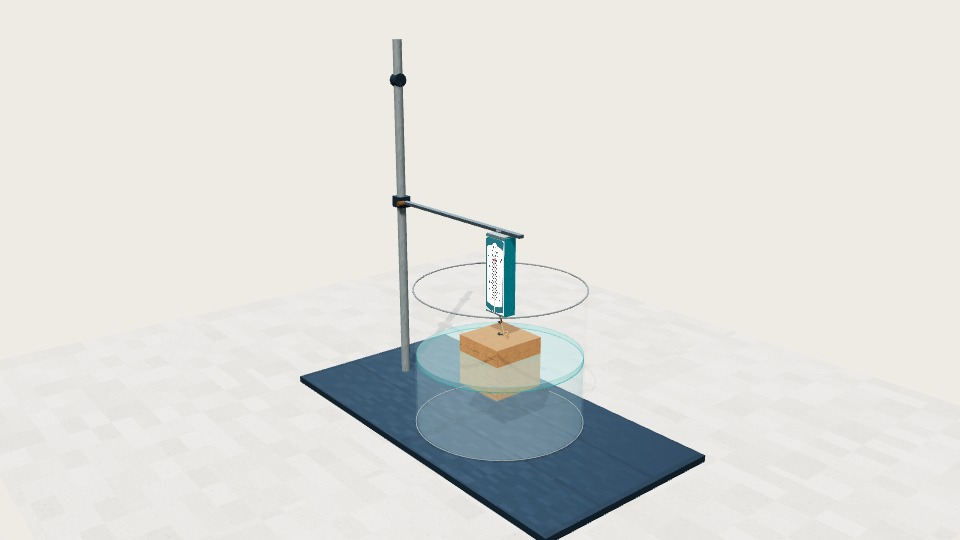
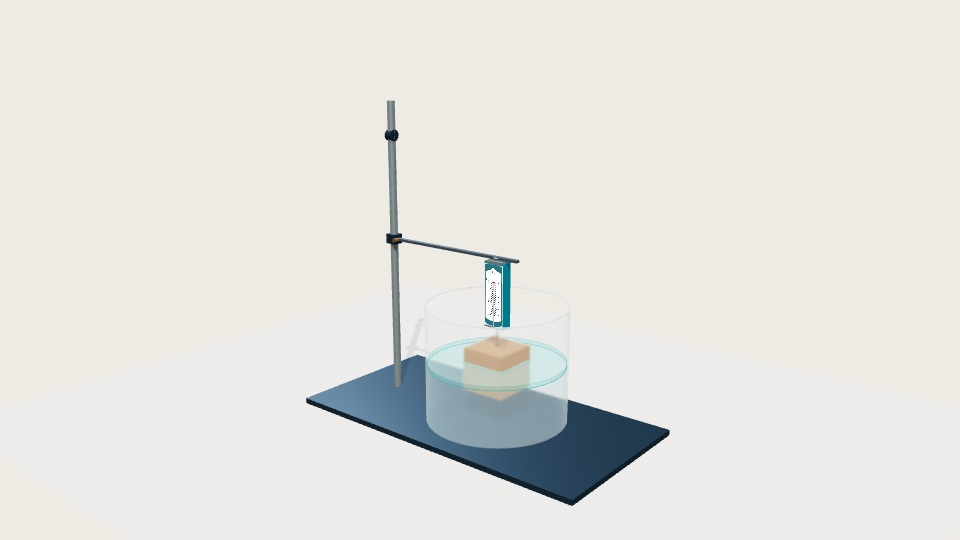
Enhance beaker and nested-cup glass in buoyancy density lab

Changed region(s): [[0.3125, 0.0593, 0.75, 1.0]]

diff --git a/models/buoyancy-density-lab.html b/models/buoyancy-density-lab.html
@@ -5152,17 +5152,32 @@ function setup(){
  const key=new THREE.DirectionalLight('#fff4e9',3.0);key.position.set(16,32,21);key.castShadow=true;key.shadow.mapSize.set(1024,1024);key.shadow.camera.left=-40;key.shadow.camera.right=40;key.shadow.camera.top=40;key.shadow.camera.bottom=-40;scene.add(key);
  const fill=new THREE.DirectionalLight('#c4def3',1.2);fill.position.set(-18,19,-14);scene.add(fill);
  const ambient=new THREE.AmbientLight('#f5f3f0',0.32);scene.add(ambient);
+ // Local reflection rig is assigned only to optical glass, keeping other materials unchanged.
+ const glassStudio=new THREE.Scene();glassStudio.add(new THREE.Mesh(new THREE.BoxGeometry(180,180,180),new THREE.MeshBasicMaterial({color:0x7f9095,side:THREE.BackSide})));
+ for(const panel of [{p:[-35,26,40],size:[9,72],power:5.0,color:0xf2f8ff},{p:[38,30,21],size:[6,64],power:3.8,color:0xfff5e4},{p:[0,65,-28],size:[48,12],power:2.1,color:0xffffff}]){const lightbox=new THREE.Mesh(new THREE.PlaneGeometry(...panel.size),new THREE.MeshBasicMaterial({color:new THREE.Color(panel.color).multiplyScalar(panel.power),side:THREE.DoubleSide}));lightbox.position.set(...panel.p);lightbox.lookAt(0,10,0);glassStudio.add(lightbox);}
+ const glassPMREM=new THREE.PMREMGenerator(renderer),glassEnvironment=glassPMREM.fromScene(glassStudio,.02);
+ const glassEnv=glassEnvironment.texture;glassPMREM.dispose();glassStudio.traverse(o=>{o.geometry?.dispose();o.material?.dispose();});
+ function nestedGlass(opacity=.17){
+  // Transparent reflection shell: retains the inner cup and both dyed liquids.
+  const m=new THREE.MeshPhysicalMaterial({color:0xf0fafc,roughness:.055,metalness:0,transparent:true,opacity,transmission:0,ior:1.5,depthWrite:false,side:THREE.FrontSide,envMap:glassEnv,envMapIntensity:1.15,clearcoat:.3,clearcoatRoughness:.08});
+  m.userData.noMaterialFinish=true;m.userData.disposable=true;
+  m.onBeforeCompile=shader=>{shader.fragmentShader=shader.fragmentShader.replace('#include <dithering_fragment>',`#include <dithering_fragment>
+   float edge=pow(1.0-abs(dot(normalize(normal),normalize(vViewPosition))),2.0);
+   gl_FragColor.a*=mix(.20,1.8,edge);`);};m.customProgramCacheKey=()=> 'buoyancy-nested-glass-b22';return m;
+ }
  const mats={
   metal:new THREE.MeshStandardMaterial({color:'#7a8a97',metalness:.78,roughness:.33}),
   dark:new THREE.MeshStandardMaterial({color:'#304454',metalness:.56,roughness:.33}),
   trim:new THREE.MeshStandardMaterial({color:'#b9ccd3',metalness:.8,roughness:.2}),
   white:new THREE.MeshStandardMaterial({color:'#eef1f2',metalness:.1,roughness:.45}),
   brass:new THREE.MeshStandardMaterial({color:'#b18c5d',metalness:.8,roughness:.28}),
-  glass:new THREE.MeshPhysicalMaterial({color:'#e7f9ff',roughness:.06,metalness:0,transparent:true,opacity:.09,transmission:0,clearcoat:.75,clearcoatRoughness:.045,depthWrite:false,side:THREE.FrontSide}),
+  glass:new THREE.MeshPhysicalMaterial({color:0xf2fbff,roughness:.05,metalness:0,transparent:true,opacity:1,transmission:.94,ior:1.5,thickness:.17,attenuationColor:new THREE.Color(0xc8e7eb),attenuationDistance:8,envMap:glassEnv,envMapIntensity:1.05,clearcoat:.12,clearcoatRoughness:.08,depthWrite:false,side:THREE.FrontSide}),
   glaze:new THREE.MeshPhysicalMaterial({color:'#c8edf6',roughness:.08,metalness:0,transparent:true,opacity:.34,transmission:.55,thickness:.35,ior:1.34,depthWrite:false,side:THREE.DoubleSide}),
   rope:new THREE.MeshStandardMaterial({color:'#ae875b',roughness:.86}),
   cut:new THREE.MeshStandardMaterial({color:'#79acc1',metalness:.1,roughness:.45,side:THREE.DoubleSide})
  };
+ mats.glass.userData.noMaterialFinish=true;
+ mats.glassRim=mats.glass.clone();mats.glassRim.roughness=.075;mats.glassRim.thickness=.22;mats.glassRim.transmission=.58;mats.glassRim.opacity=.92;mats.glassRim.color.set(0xc5e4eb);
  const floor=new THREE.Mesh(new THREE.PlaneGeometry(100,80),new THREE.MeshStandardMaterial({color:'#e8e0d5',roughness:.95}));floor.rotation.x=-Math.PI/2;floor.position.y=-.5;floor.receiveShadow=true;scene.add(floor);
  let apparatus=new THREE.Group(),permanent=new THREE.Group();
  scene.add(apparatus,permanent);
@@ -5599,11 +5614,17 @@ function setup(){
    };
    function bounds(t){const z=r*Math.cos(t);if(r*Math.sin(t)>r*.8&&Math.abs(z)<hr){const dy=Math.sqrt(hr*hr-z*z);return [yc-dy,yc+dy];}return [yc,yc];}
    for(let i=0;i<angles.length-1;i++){const a=angles[i],b=angles[i+1],[loA,hiA]=bounds(a),[loB,hiB]=bounds(b);quad(a,b,0,loA,0,loB);quad(a,b,hiA,height,hiB,height);}
-   const geo=new THREE.BufferGeometry();geo.setAttribute('position',new THREE.Float32BufferAttribute(positions,3));geo.computeVertexNormals();tankGlass=mesh(geo,mats.glass);tankGlass.material=tankGlass.material.clone();tankGlass.material.side=THREE.DoubleSide;tankGlass.material.opacity=.16;
+   const geo=new THREE.BufferGeometry();geo.setAttribute('position',new THREE.Float32BufferAttribute(positions,3));geo.computeVertexNormals();tankGlass=mesh(geo,mats.glass);tankGlass.material=tankGlass.material.clone();tankGlass.material.side=THREE.DoubleSide;tankGlass.material.opacity=1;
   }else tankGlass=cyl(r,r,height,mats.glass,0,baseY+height/2,0,apparatus,96,start,len,true);
-  tankGlass.castShadow=false;tankGlass.userData.cutStart=start;tankGlass.userData.cutLength=len;
+  tankGlass.castShadow=false;tankGlass.name='glass-main-wall';
+  // A surface-reflection pass keeps glass highlights above the translucent water.
+  const reflectionWall=mesh(tankGlass.geometry.clone(),nestedGlass(.20));reflectionWall.position.copy(tankGlass.position);reflectionWall.rotation.copy(tankGlass.rotation);reflectionWall.scale.copy(tankGlass.scale);reflectionWall.material.side=tankGlass.material.side;reflectionWall.renderOrder=10;reflectionWall.castShadow=false;reflectionWall.receiveShadow=false;reflectionWall.name='glass-surface-reflections';
+  // An actual inner wall and rounded lip make the 1.7 mm display thickness legible.
+  if(mode!=='overflow'){const innerMat=nestedGlass(.045);innerMat.side=THREE.BackSide;
+   const inner=cyl(r-.17,r-.17,height-.12,innerMat,0,baseY+.12+(height-.12)/2,0,apparatus,96,start,len,true);inner.name='glass-inner-wall';inner.renderOrder=8;inner.castShadow=false;}
+  tankGlass.userData.cutStart=start;tankGlass.userData.cutLength=len;
   const bottom=mesh(new THREE.CircleGeometry(r,96,start-Math.PI/2,len),mats.glass);bottom.rotation.x=-Math.PI/2;bottom.position.y=baseY;
-  sectorRing(r,baseY+height,mats.trim,.065);sectorRing(r,baseY,mats.trim,.055);
+  sectorRing(r-.08,baseY+height,mats.glassRim,.08);sectorRing(r-.06,baseY+.035,mats.glassRim,.06);
   tankWater=cyl(R,R,1,wm,0,0,0,apparatus,96,start,len,true);tankWater.castShadow=false;tankWater.renderOrder=2;
   surface=mesh(new THREE.CircleGeometry(R,96,start-Math.PI/2,len),waterSurfaceMaterial(wm));surface.rotation.x=-Math.PI/2;surface.renderOrder=3;surface.castShadow=false;
   surface.userData.cutStart=start;surface.userData.cutLength=len;surface.userData.radius=R;
@@ -5631,14 +5652,14 @@ function setup(){
   const jetCurve=new THREE.CatmullRomCurve3([B,B.clone().add(new THREE.Vector3(.15,-.8,0)),new THREE.Vector3(B.x+.18,baseY+6.9,0),new THREE.Vector3(B.x+.12,baseY+.3,0)]);
   overflowJet=mesh(new THREE.TubeGeometry(jetCurve,36,.07,8,false),new THREE.MeshBasicMaterial({color:'#249dbb',transparent:true,opacity:.78}));overflowJet.visible=false;overflowLumen.visible=false;
   cupCollect=new THREE.Group();apparatus.add(cupCollect);cupCollect.position.x=B.x;
-  cyl(2.55,2.5,6.8,mats.glass,0,baseY+3.4,0,cupCollect,64,0,Math.PI*2,true);cyl(2.55,2.55,.12,mats.glass,0,baseY+.06,0,cupCollect);torus(2.55,.06,mats.trim,0,baseY+6.8,0,cupCollect);
+  const collectingWall=cyl(2.55,2.5,6.8,mats.glass,0,baseY+3.4,0,cupCollect,64,0,Math.PI*2,true);const collectingReflection=mesh(collectingWall.geometry.clone(),nestedGlass(.18),cupCollect);collectingReflection.position.copy(collectingWall.position);collectingReflection.renderOrder=10;collectingReflection.castShadow=false;collectingReflection.receiveShadow=false;cyl(2.55,2.55,.12,mats.glass,0,baseY+.06,0,cupCollect);torus(2.50,.055,mats.glassRim,0,baseY+6.8,0,cupCollect);
   collectWater=cyl(2.4,2.4,1,liquidMaterial(),0,baseY,0,cupCollect,64);waterCollected=Math.max(0,Number(P.overflowVol)||0);
  }
 
  let nestedGlassEdges=[];
  function glassOutline(r,h,parent){
-  const edge=new THREE.MeshBasicMaterial({color:'#4d7281',transparent:true,opacity:.88,depthWrite:false,toneMapped:false});
-  const shine=new THREE.MeshBasicMaterial({color:'#effbff',transparent:true,opacity:.70,depthWrite:false,toneMapped:false});
+  const edge=new THREE.MeshBasicMaterial({color:'#4d7281',transparent:true,opacity:.48,depthWrite:false,toneMapped:false});
+  const shine=new THREE.MeshBasicMaterial({color:'#effbff',transparent:true,opacity:.52,depthWrite:false,toneMapped:false});
   // Camera-facing tangent contours define the cylindrical walls without tinting the liquid.
   const sides=new THREE.Group();parent.add(sides);nestedGlassEdges.push(sides);
   for(const x of [-r,r])cyl(.05,.05,h-.08,edge,x,h/2,0,sides,8);
@@ -5649,13 +5670,13 @@ function setup(){
  }
  function makeNested(){
   const outR=NESTED.outerD/2, inR=nestedInnerD()/2;const gap=outR-inR;
-  const outerMat=new THREE.MeshBasicMaterial({color:'#b8d7e2',transparent:true,opacity:.13,depthWrite:false,side:THREE.FrontSide,toneMapped:false});
+  const outerMat=nestedGlass(.20);
   // Subtle glass fill plus rim, bottom and silhouette contours keep both cups readable.
   nestedOuterGlass=cyl(outR,outR,NESTED.cupH,outerMat,0,NESTED.cupH/2,0,apparatus,72,cut?Math.PI/4:0,cut?Math.PI*1.5:2*Math.PI,true);
   cyl(outR,outR,.18,outerMat,0,.1,0,apparatus,64);
   glassOutline(outR,NESTED.cupH,apparatus);
   nestedInnerGlass=new THREE.Group();apparatus.add(nestedInnerGlass);
-  const wallMat=new THREE.MeshBasicMaterial({color:'#c4e0e9',transparent:true,opacity:.12,depthWrite:false,side:THREE.FrontSide,toneMapped:false});
+  const wallMat=nestedGlass(.17);
   cyl(inR,inR,NESTED.innerH,wallMat,0,NESTED.innerH/2,0,nestedInnerGlass,64,cut?Math.PI/4:0,cut?Math.PI*1.5:2*Math.PI,true);
   cyl(inR,inR,.20,wallMat,0,.10,0,nestedInnerGlass,64);
   glassOutline(inR,NESTED.innerH,nestedInnerGlass);
@@ -5686,7 +5707,7 @@ function setup(){
    lastTransition=_state.modeTransitionVersion||0;
   }
   apparatus.visible=true;
-  if(mode==='nestedCup'){makeNested();if(cut)apparatus.traverse(o=>{if(o.material&&!Array.isArray(o.material)){o.material=o.material.clone();o.material.clippingPlanes=cutPlanes;o.material.clipIntersection=true;o.material.userData.disposable=true;o.material.needsUpdate=true;}});} else {
+  if(mode==='nestedCup'){makeNested();if(cut)apparatus.traverse(o=>{if(o.material&&!Array.isArray(o.material)){const source=o.material;o.material=source.clone();o.material.onBeforeCompile=source.onBeforeCompile;o.material.customProgramCacheKey=source.customProgramCacheKey;o.material.clippingPlanes=cutPlanes;o.material.clipIntersection=true;o.material.userData.disposable=true;o.material.needsUpdate=true;}});} else {
    makeTank(getVisCm(),mode);
    const obj=placedObj(); if(obj&&modeState.isPlaced) objectRoot=buildObject(obj);
   }
@@ -5865,7 +5886,7 @@ function setup(){
  }
  requestAnimationFrame(loop);
  resize();
- window.__buoyancyB13={scene,camera,pose,bodyPosition:()=>objectRoot?.position.toArray(),getState:()=>({equipment:{mode:modeState.current,builtMode:lastMode,column:standColumn.visible,scale:scaleRoot.visible,arm:standSlidable.visible,apparatus:apparatus.visible,rope:!!suspension?.parent,collector:!!cupCollect?.parent,jet:!!overflowJet?.visible,face:faceSvg.style.display!=='none'},cut,target:target.toArray(),camera:camera.position.toArray(),waterAngle:surface?.geometry.parameters?.thetaStart,sideAngle:tankWater?.geometry.parameters?.thetaStart,radius:surface?.userData.radius,spout:outTube?.userData,jet:!!overflowJet?.visible,collectorX:cupCollect?.position.x}),projectScale:()=>{const p=new THREE.Vector3(0,3.8,.8).applyMatrix4(scaleRoot.matrixWorld).project(camera);const r=el.getBoundingClientRect();return {x:r.x+(p.x+1)*r.width/2,y:r.y+(1-p.y)*r.height/2};},projectWater:()=>{const p=new THREE.Vector3(-4,baseY+wetH,0).project(camera);const r=el.getBoundingClientRect();return {x:r.x+(p.x+1)*r.width/2,y:r.y+(1-p.y)*r.height/2};}};
+ window.__buoyancyB13={scene,camera,renderer,pose,glassMaterials:{main:mats.glass,rim:mats.glassRim},glassObjects:()=>({tank:tankGlass,collector:cupCollect,outer:nestedOuterGlass,inner:nestedInnerGlass}),bodyPosition:()=>objectRoot?.position.toArray(),getState:()=>({equipment:{mode:modeState.current,builtMode:lastMode,column:standColumn.visible,scale:scaleRoot.visible,arm:standSlidable.visible,apparatus:apparatus.visible,rope:!!suspension?.parent,collector:!!cupCollect?.parent,jet:!!overflowJet?.visible,face:faceSvg.style.display!=='none'},cut,target:target.toArray(),camera:camera.position.toArray(),waterAngle:surface?.geometry.parameters?.thetaStart,sideAngle:tankWater?.geometry.parameters?.thetaStart,radius:surface?.userData.radius,spout:outTube?.userData,jet:!!overflowJet?.visible,collectorX:cupCollect?.position.x}),projectScale:()=>{const p=new THREE.Vector3(0,3.8,.8).applyMatrix4(scaleRoot.matrixWorld).project(camera);const r=el.getBoundingClientRect();return {x:r.x+(p.x+1)*r.width/2,y:r.y+(1-p.y)*r.height/2};},projectWater:()=>{const p=new THREE.Vector3(-4,baseY+wetH,0).project(camera);const r=el.getBoundingClientRect();return {x:r.x+(p.x+1)*r.width/2,y:r.y+(1-p.y)*r.height/2};}};
  return {renderer,scene,camera,pose,resize,extractCommand,updateExtractVisibility,invalidateMode};
 }
 })();

diff --git a/catalog.js b/catalog.js
@@ -521,8 +521,8 @@ window.MODEL_CATALOG = [
       "套杯",
       "受力分析"
     ],
-    "path": "models/buoyancy-density-lab.html?v=20261025-b21",
-    "cover": "assets/covers/buoyancy-density-lab-scene.jpg?v=20261025-b21",
+    "path": "models/buoyancy-density-lab.html?v=20261102-glass-b22",
+    "cover": "assets/covers/buoyancy-density-lab-scene.jpg?v=20261102-glass-b22",
     "symbol": "浮",
     "accent": "green"
   },

diff --git a/docs/buoyancy-density-lab.md b/docs/buoyancy-density-lab.md
@@ -20,3 +20,11 @@
 已检查五种实验、双力 SVG 曲线、点击放大、主场景点选、剖切角度、右键/Shift/双指平移、溢水体积守恒、轴范围自动缩放、释放/系绳、投影模式、2D/3D 以及桌面和手机布局；浏览器断网运行未请求外部资源。另验证首页搜索、内嵌交互和返回时卸载 iframe。
 
 `assets/covers/buoyancy-density-lab-scene.jpg` 是本案例标准实验状态的真实 Chromium/WebGL 场景截图，960×540 JPEG；仅隐藏界面并调整画布尺寸，保留实际器材、相机、材质、照明及 SVG 测力计表面。
+
+## B22 玻璃质感（2026-11-02）
+
+- 主烧杯、溢水杯、接水杯与套杯内外壁统一增强玻璃表面反射。标准容器采用透射、折射率、模型单位下的壁厚和吸收参数，并补充内壁及玻璃杯沿；水体和物体数据不变。
+- 本地生成的矩形柔光反射环境只用于玻璃材质，不修改公共材质脚本。透明水体上方另合成玻璃表面反射，避免高光被液体覆盖。
+- 套杯保留红、蓝液体原有绘制顺序，使用边缘增强的反射玻璃近似，而非让当前 WebGL 单次透射采样隐藏另一层杯壁。剖切时复制相同的表面着色逻辑。教学原有物理模型与导航未改。
+- 已运行五种模式，检查物体浸没、接水杯、套杯注入蓝水和剖切；没有脚本错误及外部网络请求。确认内外杯、两层液体与杯底间隙可辨认。
+- 首页封面来自标准实验中木块部分浸没的实际 WebGL/SVG 场景；重现脚本为 `scripts/capture-buoyancy-density-cover.cjs`，通过 `COVER_CHROMIUM` 指定浏览器、`COVER_NODE_MODULES` 指定 Playwright 依赖。
